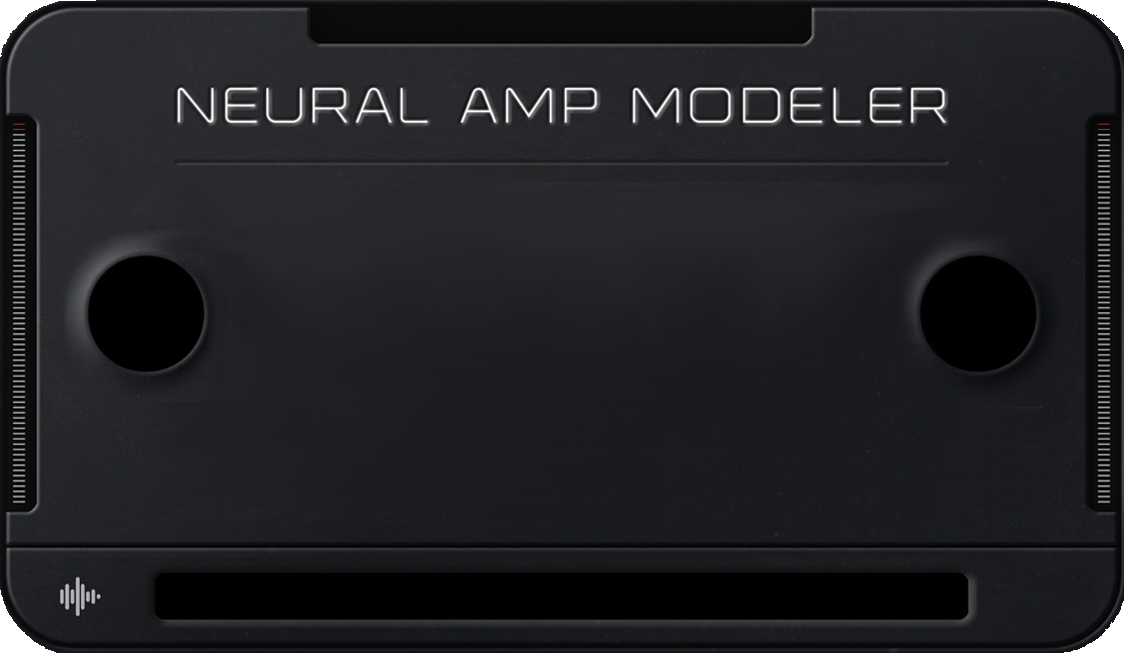
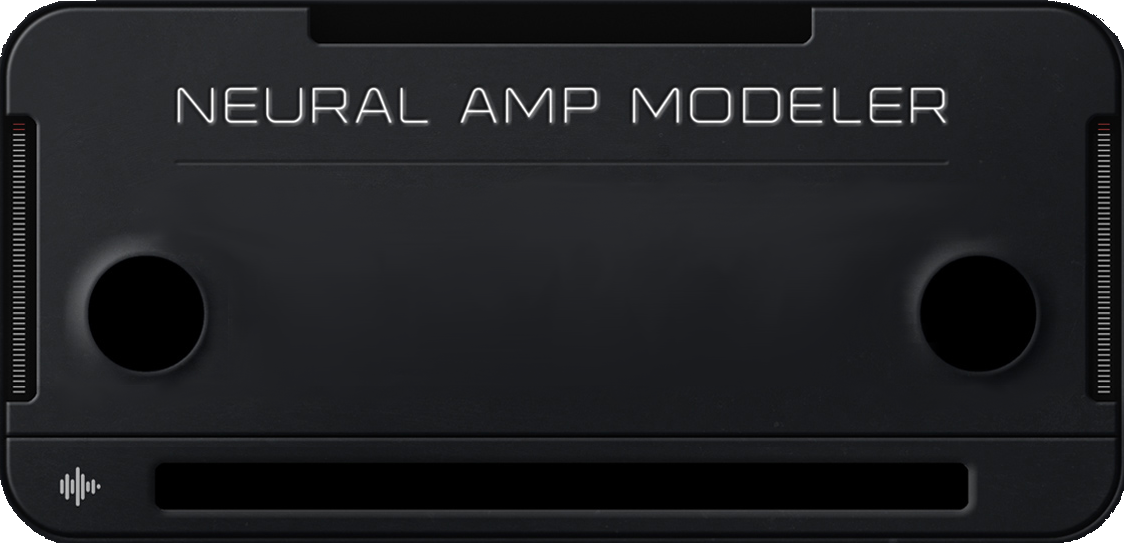
making power switch correct

diff --git a/modgui/stylesheet-nam.css b/modgui/stylesheet-nam.css
@@ -8,11 +8,11 @@
 .mod-pedal-nam {
     background-position:center center;
     background-repeat:no-repeat;
-    /* background image is 1124 × 654*/
-    background-size:562px 327px;
+    /* background image is 1124 × 543*/
+    background-size:562px 271px;
     background-image:url(/resources/background.png{{{ns}}});
     width:562px;
-    height:327px;
+    height:271px;
     position:absolute;
     border-radius:0px;
 }
@@ -23,11 +23,11 @@
     background-image:url(/resources/bypass_on.png{{{ns}}});
     background-position:center center;
     background-repeat:no-repeat;
-    background-size:100px 100px;
-    width:100px;
-    height:100px;
-    top:75px;
-    left:520px;
+    background-size:82px 47px;
+    width:82px;
+    height:47px;
+    top:132px;
+    left:235px;
     cursor:pointer;
     position:absolute;
 }
@@ -50,7 +50,7 @@
     left:22px;
 }
 .mod-pedal-nam .group2 {
-    top:163px;
+    top:107px;
     left:78px;
 }
 
@@ -109,13 +109,17 @@
 .mod-pedal-nam .mod-enumerated .mod-enumerated-selected {
     padding-left: 5px;
     overflow: hidden;
+    white-space: nowrap;
+    text-overflow: ellipsis;
     background-color: transparent;
+    color: white;
+    display: block;
 }
 
 /* THE LIST OF OPTIONS */
 .mod-pedal-nam .mod-enumerated .mod-enumerated-list {
     background: black;
-    /* display: none; */
+    display: none;
     height: 219px;
     overflow: auto;
     position: relative;

diff --git a/modgui/icon-nam.html b/modgui/icon-nam.html
@@ -15,7 +15,9 @@
             {{#effect.parameters}}
             {{#path}}
             <div class="mod-enumerated" mod-role="input-parameter" mod-parameter-uri="{{uri}}" mod-widget="custom-select-path">
-                <div mod-role="input-parameter-value" mod-parameter-uri="{{uri}}" class="mod-enumerated-selected"></div>
+                <div mod-role="input-parameter-value" mod-parameter-uri="{{uri}}" class="mod-enumerated-selected">
+                    -- choose --
+                </div>
                 <div class="mod-enumerated-list">
                     {{#files}}
                     <div mod-role="enumeration-option" mod-parameter-value="{{fullname}}">{{basename}}</div>
